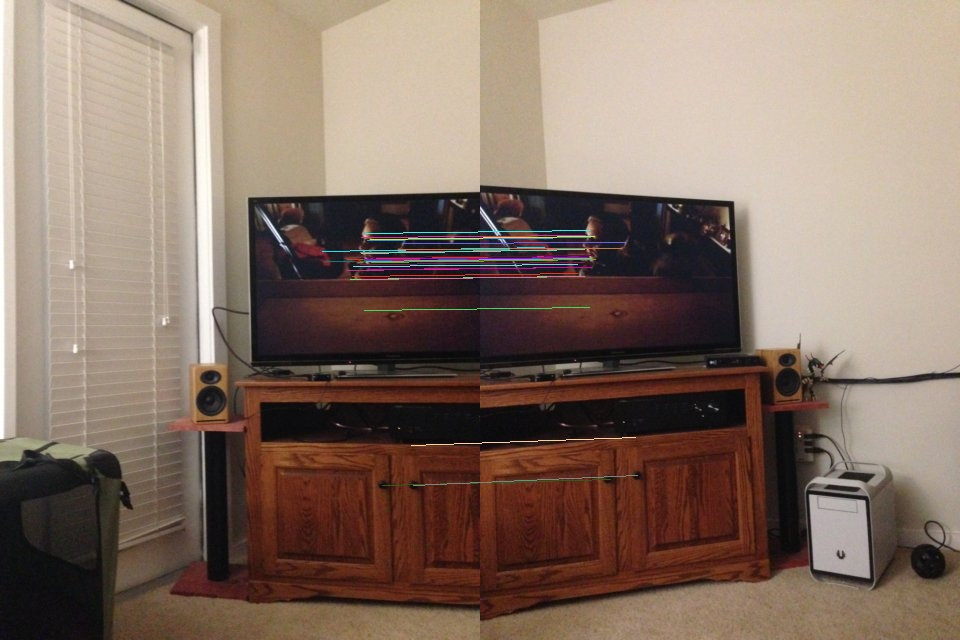
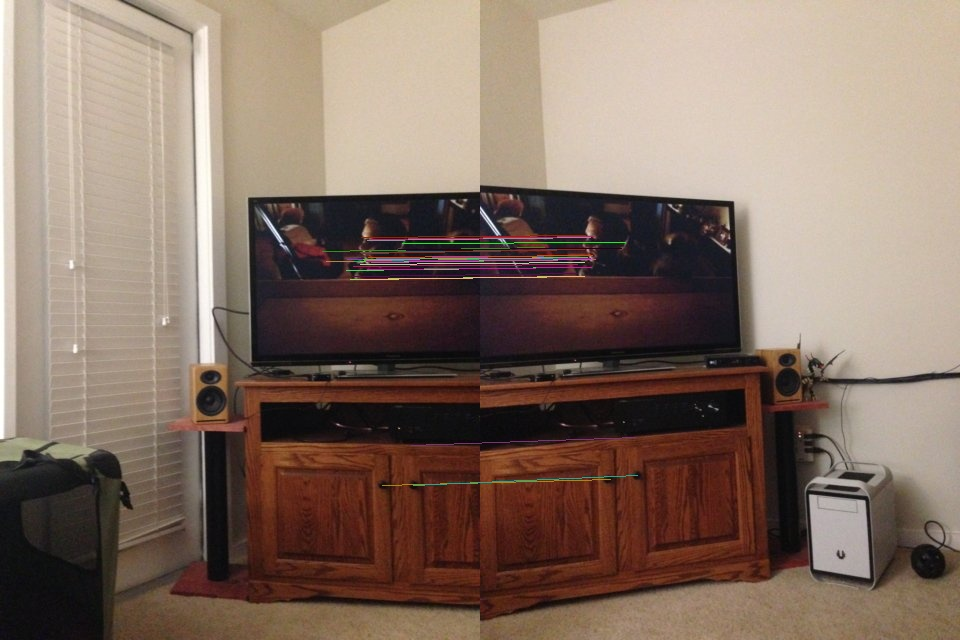
update

diff --git a/HW3/APIS/apis.py b/HW3/APIS/apis.py
@@ -44,7 +44,7 @@ def find_matches(rawmatch: dict(), ratio: float) -> List[Tuple[int, int]]:
     matches = []
     for m, value in rawmatch.items():
         if len(value[0]) == 2 and value[1] < value[2] * ratio:
-            matches.append((m, value[0][0]))
+            matches.append([m, value[0][0]])
     return matches
 
 
@@ -107,7 +107,7 @@ def ransac(matches, kps_list, min_match_count, num_test: int, threshold: float):
 
         min_outliers_count = math.inf
         while(num_test != 0):
-            indexs = np.random.choice(len(matches), min_match_count)
+            indexs = np.random.choice(len(matches), min_match_count, replace=False)
             homography = homomat(
                 min_match_count, src_pts[indexs], dst_pts[indexs])
 
@@ -140,75 +140,133 @@ def ransac(matches, kps_list, min_match_count, num_test: int, threshold: float):
         raise Exception("Not much matching keypoints exits!")
 
 
-def warp(img1, img2, homography):
-    # Get images' height and weight
-    (hA, wA), (hB, wB) = img1.shape[:2], img2.shape[:2]
-
-    # Transform image 1 with homography matrix
-    img2_grid = [[n, m, 1] for n in range(wB) for m in range(hB)]
-
-    # Apply homography image 2
-    warped_img2 = np.array(np.mat(homography) * np.mat(img2_grid).T)
-    for i, value in enumerate(warped_img2.T):
-        warped_img2[:, i] = (value * (1 / value[2])).T
-
+def find_newimage_size(warped_img, img_height, img_width):
     # Find size of new window
-    min_x = math.floor(min(warped_img2[0]))
-    max_x = math.ceil(max(warped_img2[0]))
-    min_y = math.floor(min(warped_img2[1]))
-    max_y = math.ceil(max(warped_img2[1]))
+    min_x = math.floor(min(warped_img[0]))
+    max_x = math.ceil(max(warped_img[0]))
+    min_y = math.floor(min(warped_img[1]))
+    max_y = math.ceil(max(warped_img[1]))
 
-    size_x = max(max_x, wA) - min(min_x, 1) + 100
-    size_y = max(max_y, hA) - min(min_y, 1) + 100
+    size_x = max(max_x, img_width) - min(min_x, 1) + 100
+    size_y = max(max_y, img_height) - min(min_y, 1) + 100
 
     if size_x > 100000:
         print("Not good")
-        return None
+        return 0, 0
+    else:
+        return size_y, size_x
+
+
+def forward_warp(size_y, size_x, warped_img, img_grid, img1, img2, path):
+    vis_forward = np.zeros((size_y, size_x, 3), dtype='uint8')
+    for x, y, im in zip(warped_img[0], warped_img[1], img_grid):
+        vis_forward[int(y + 0.5), int(x + 0.5)] = img2[im[1], im[0], :]
+    vis_forward[:img1.shape[0], :img1.shape[1]] = img1
+    cv2.imshow("show forward warp", vis_forward)
+    cv2.waitKey(5000)
+
+    # Save the window
+    cv2.imwrite(path, vis_forward)
+    cv2.destroyAllWindows()
+
+
+def blend(vis_inverse, max4y, min4y, max4x, min4x, img1, alpha):
+    max8y = max(max4y, img1.shape[0])
+    min8y = min(min(min4y, 1), img1.shape[0])
+    max8x = min(max4x, img1.shape[1])
+    min8x = max(min4x, 0)
+
+    for m in range(img1.shape[1]):
+        for n in range(img1.shape[0]):
+            if m in range(min8y, max8y) and n in range(min8x, max8x):
+                if sum(vis_inverse[n, m]) != 0:
+                    vis_inverse[n, m] = alpha * vis_inverse[n, m] + (1 - alpha) * img1[n, m]
+                else:
+                    vis_inverse[n, m] = img1[n, m]
+            else:
+                vis_inverse[n, m] = img1[n, m]
+    return vis_inverse
+
+
+def inverse_warp(size_y,
+                 size_x,
+                 wmg2_corners,
+                 homography,
+                 img1,
+                 img2,
+                 path):
+    vis_inverse = np.zeros((size_y, size_x, 3), dtype='uint8')
+
+    # Create image 2 grid in image 1 coordinate
+    max4y, min4y = math.ceil(max(wmg2_corners[:, 1])), math.floor(min(wmg2_corners[:, 1]))
+    max4x, min4x = math.ceil(max(wmg2_corners[:, 0])), math.floor(min(wmg2_corners[:, 0]))
+
+    wmg2_grid = [[n, m, 1] for n in range(min4x, max4x) for m in range(min(min4y, 1), max4y)]
+
+    # Inverse mapping points on image 1 to image 2
+    wmg1 = np.array(np.matrix(np.linalg.inv(homography)) * np.matrix(wmg2_grid).T)
+    for i, value in enumerate(wmg1.T):
+        wmg1[:, i] = (value * (1 / value[2])).T
+
+    for x, y, im in zip(wmg1[0], wmg1[1], wmg2_grid):
+        if int(y + 0.5) >= img2.shape[0] or int(y + 0.5) < 0:
+            continue
+        elif int(x + 0.5) >= img2.shape[1]:
+            continue
+        else:
+            vis_inverse[im[1], im[0]] = img2[int(y + 0.5), int(x + 0.5), :]
+    vis_inverse = blend(vis_inverse, max4y, min4y, max4x, min4x, img1, 0.2)
+    # vis_inverse[:img1.shape[0], :img1.shape[1]] = img1
+
+    cv2.imshow("show inverse warp", vis_inverse)
+    cv2.waitKey(5000)
+    cv2.imwrite(path, vis_inverse)
+    cv2.destroyAllWindows()
+
+
+def warp(img1, img2, homography, path_list):
+    # Get images' height and weight
+    (hA, wA), (hB, wB) = img1.shape[:2], img2.shape[:2]
+
+    # Transform image 2 with homography matrix
+    img2_grid = [[n, m, 1] for n in range(wB) for m in range(hB)]
+
+    # Apply homography on image 2
+    wmg2 = np.array(np.mat(homography) * np.mat(img2_grid).T)
+    for i, value in enumerate(wmg2.T):
+        wmg2[:, i] = (value * (1 / value[2])).T
+
+    # Find new window size
+    size_y, size_x = find_newimage_size(wmg2, hA, wA)
+    if size_x == 0 and size_y == 0:
+        return 1
+
+    # Find transformed four corners og image 2 on image 1 coordinate system
+    wmg2_corners = np.zeros((4, 3))
+    for wp, im in zip(wmg2.T, img2_grid):
+        if im[0] == 0 and im[1] == 0:
+            wmg2_corners[0] = wp
+        elif im[0] == 0 and im[1] == hB - 1:
+            wmg2_corners[1] = wp
+        elif im[0] == wB - 1 and im[1] == 0:
+            wmg2_corners[2] = wp
+        elif im[0] == wB - 1 and im[1] == hB - 1:
+            wmg2_corners[3] = wp
+        else:
+            continue
 
     # OpenCV warp
     warped = cv2.warpPerspective(img2, homography, (size_y, size_x))
     warped[:hA, :wA] = img1
     cv2.imshow("show_opencv", warped)
     cv2.waitKey(5000)
-
-    # Save the window
-    cv2.imwrite('./results/warp/openCV.jpg', warped)
+    cv2.imwrite(path_list[0], warped)
     cv2.destroyAllWindows()
 
-    # My warp
+    # Forward warping
+    forward_warp(size_y, size_x, wmg2, img2_grid, img1, img2, path_list[1])
 
-    # Take four corner from image 1
-    img1_corners = [[0, 0, 1], [0, hA, 1], [wA, 0, 1], [wA, hA, 1]]
-    warped_corners = np.array(np.linalg.inv(np.mat(homography)) * np.mat(img1_corners).T)
-    for i, value in enumerate(warped_corners.T):
-        warped_corners[:, i] = (value * (1 / value[2])).T
+    # Inverse warping
+    inverse_warp(size_y, size_x, wmg2_corners, homography, img1, img2, path_list[2])
 
-    max4y = math.ceil(max(warped_corners[:, 0]))
-    min4y = math.floor(min(warped_corners[:, 0]))
-    max4x = math.ceil(max(warped_corners[:, 1]))
-    min4x = math.floor(min(warped_corners[:, 1]))
-
-    max8y = max(max4y, hB)
-    min8y = min(min4y, 0)
-    max8x = max(max4x, wB)
-    min8x = min(min4x, 0)
-
-    new_size_y = max8y - min8y
-    new_size_x = max8x - min8x
-
-    vis = np.zeros((new_size_y, new_size_x, 3), dtype='uint8')
-    vis_grid = [[n, m, 1] for n in range(vis.shape[1]) for m in range(vis.shape[0])]
-
-    # Forward Mapping
-    vis_forward = np.zeros((size_y, size_x, 3), dtype='uint8')
-    for x, y, im in zip(warped_img2[0], warped_img2[1], img2_grid):
-        if(sum(img2[im[1], im[0], :]) == 0):
-            print(im[1], im[0])
-        vis_forward[int(y + 0.5), int(x + 0.5)] = img2[im[1], im[0], :]
-    vis_forward[:hA, :wA] = img1
-    cv2.imshow("show_my", vis_forward)
-    cv2.waitKey(5000)
-
-    # Save the window
-    cv2.imwrite('./results/warp/my_forward.jpg', vis_forward)
-    cv2.destroyAllWindows()
+    return 0

diff --git a/HW3/run.py b/HW3/run.py
@@ -9,30 +9,49 @@ if __name__ == '__main__':
         "1": {
             "path": ['1.jpg', '2.jpg'],
             "ratio": 0.75,
-            "min_match_num": 32,
+            "min_match_num": 16,
             "iter": 3000,
-            "threshold": 70
+            "threshold": 70,
+            "key": 'first'
         },
         "2": {
             "path": ['hill1.JPG', 'hill2.JPG'],
             "ratio": 0.8,
-            "min_match_num": 32,
+            "min_match_num": 16,
             "iter": 3000,
-            "threshold": 180
+            "threshold": 150,
+            "key": 'hill'
         },
         "3": {
             "path": ['S1.jpg', 'S2.jpg'],
             "ratio": 0.8,
             "min_match_num": 16,
             "iter": 3000,
-            "threshold": 100
+            "threshold": 100,
+            "key": 'S'
         },
+        "bottle": {
+            "path": ['bottle_left.jpg', 'bottle_right.jpg'],
+            "ratio": 0.75,
+            "min_match_num": 8,
+            "iter": 1000,
+            "threshold": 100,
+            "key": 'bottle'
+        },
+        "machine": {
+            "path": ['machine_left.jpg', 'machine_right.jpg'],
+            "ratio": 0.8,
+            "min_match_num": 16,
+            "iter": 3000,
+            "threshold": 100,
+            "key": 'machine'
+        }
     }
 
     for k, para in PARA_DIC.items():
-        if k != "1":
-            continue
-        print(k)
+        path_list = [f'./results/warp/{para["key"]}/openCV_f.jpg',
+                     f'./results/warp/{para["key"]}/forward_f.jpg',
+                     f'./results/warp/{para["key"]}/backward_blending.jpg']
         img_list = []
         kps_list = []
         des_list = []
@@ -56,9 +75,16 @@ if __name__ == '__main__':
             matches, kps_list, para["min_match_num"], para["iter"], para["threshold"])
         path_ransac = f'./results/lines_ransac/{path.split(".")[0]}_result.jpg'
         save_matching_img(img_list, kps_list, best_matches, path_ransac)
+        print(best_homomat)
 
-        # Wrap
-        '''best_homomat = np.array([[7.67052069e-01, -1.33024188e-02, 1.22317779e+02],
-                                 [-1.24741706e-01, 9.22697193e-01, 1.25025810e+01],
-                                 [-6.95491259e-04, -1.36813131e-05, 1.00000000e+00]])'''
-        warp(img_list[0], img_list[1], best_homomat)
+        # cv2
+        src_pts = np.array(
+            [kps_list[1][m[1]].pt for m in best_matches])
+        dst_pts = np.array(
+            [kps_list[0][m[0]].pt for m in best_matches])
+        indexs = np.random.choice(len(best_matches), 4, replace=False)
+        best_homomat = cv2.getPerspectiveTransform(np.array(src_pts[indexs], np.float32),
+                                                   np.array(dst_pts[indexs], np.float32))
+        print(best_homomat)
+
+        re = warp(img_list[0], img_list[1], best_homomat, path_list)

diff --git a/HW3/APIS/__init__.py b/HW3/APIS/__init__.py
@@ -1,4 +1,4 @@
-from .apis import sift, knnmatch, find_matches, save_matching_img, ransac, warp
+from .apis import sift, knnmatch, find_matches, save_matching_img, ransac, warp, homomat
 
 
 __all__ = [
@@ -7,5 +7,6 @@ __all__ = [
     "find_matches",
     "save_matching_img",
     "ransac",
-    "warp"
+    "warp",
+    "homomat"
 ]
